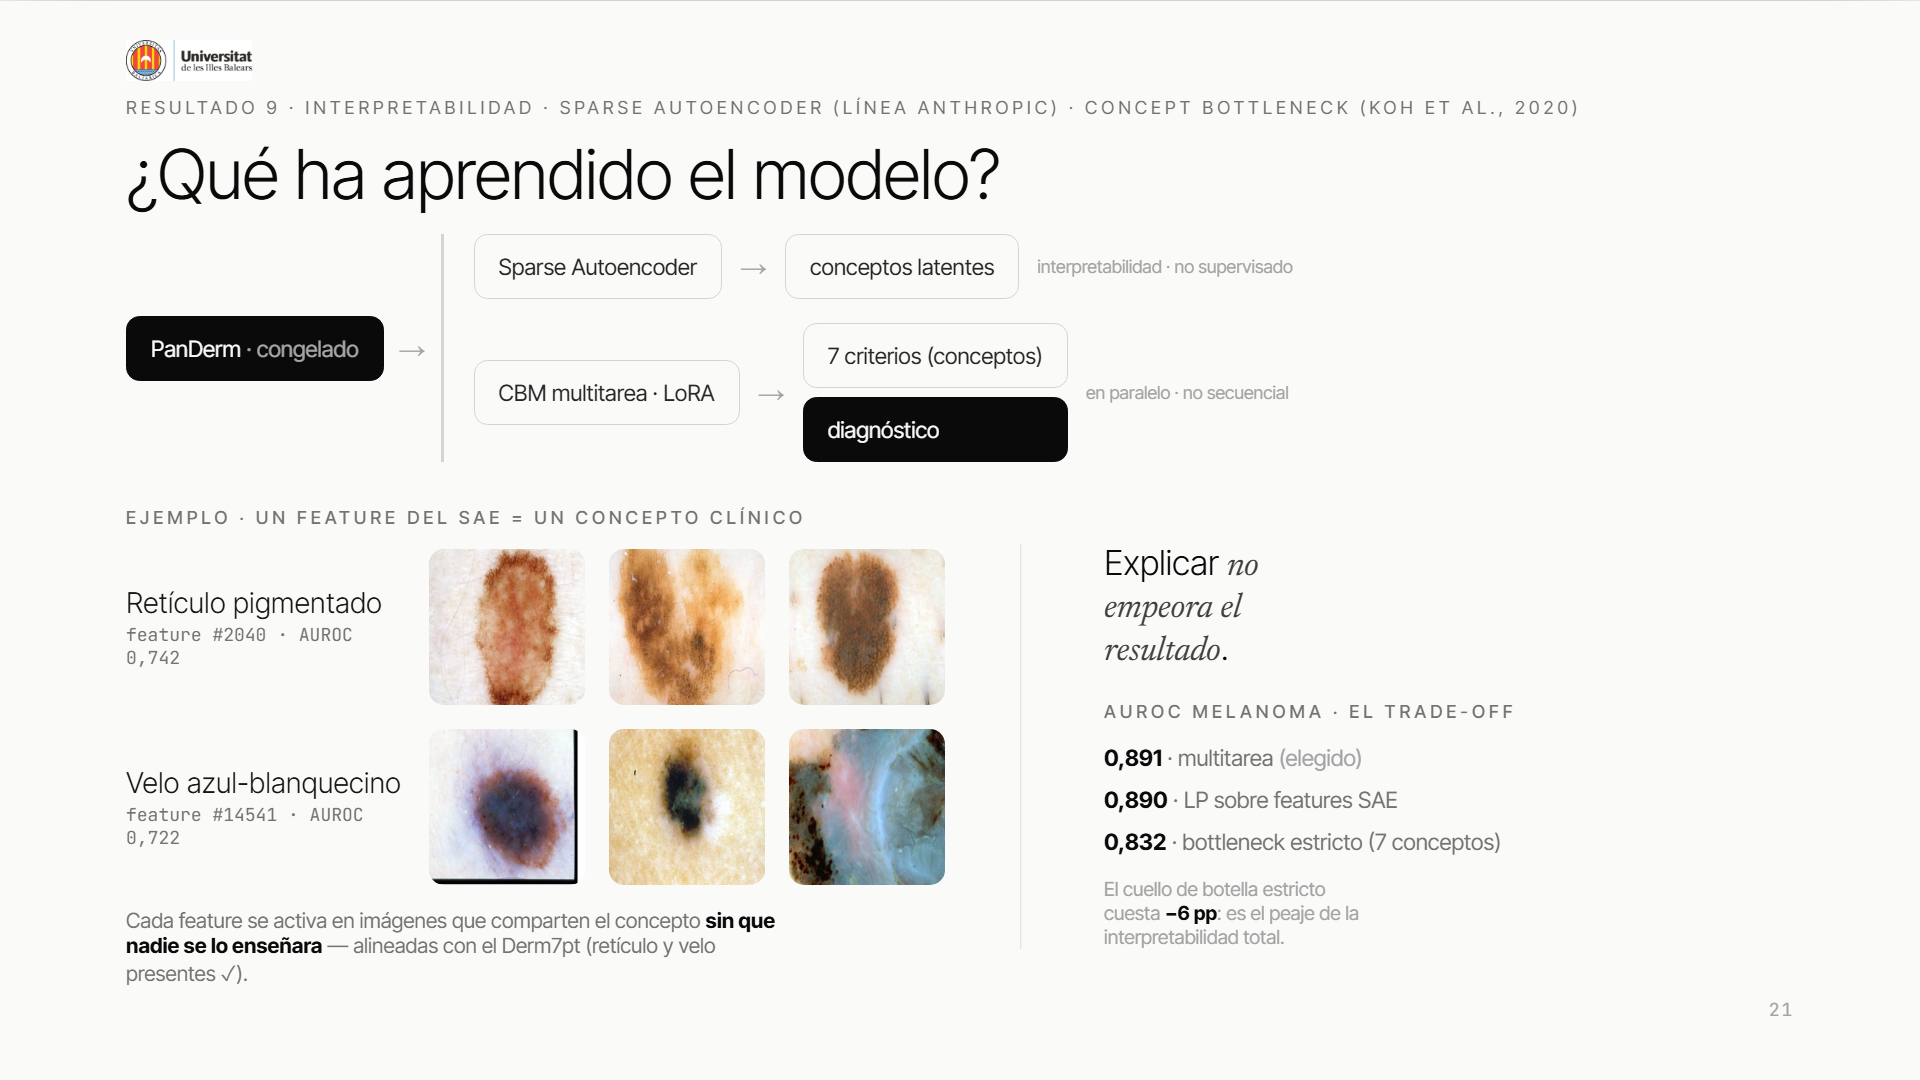
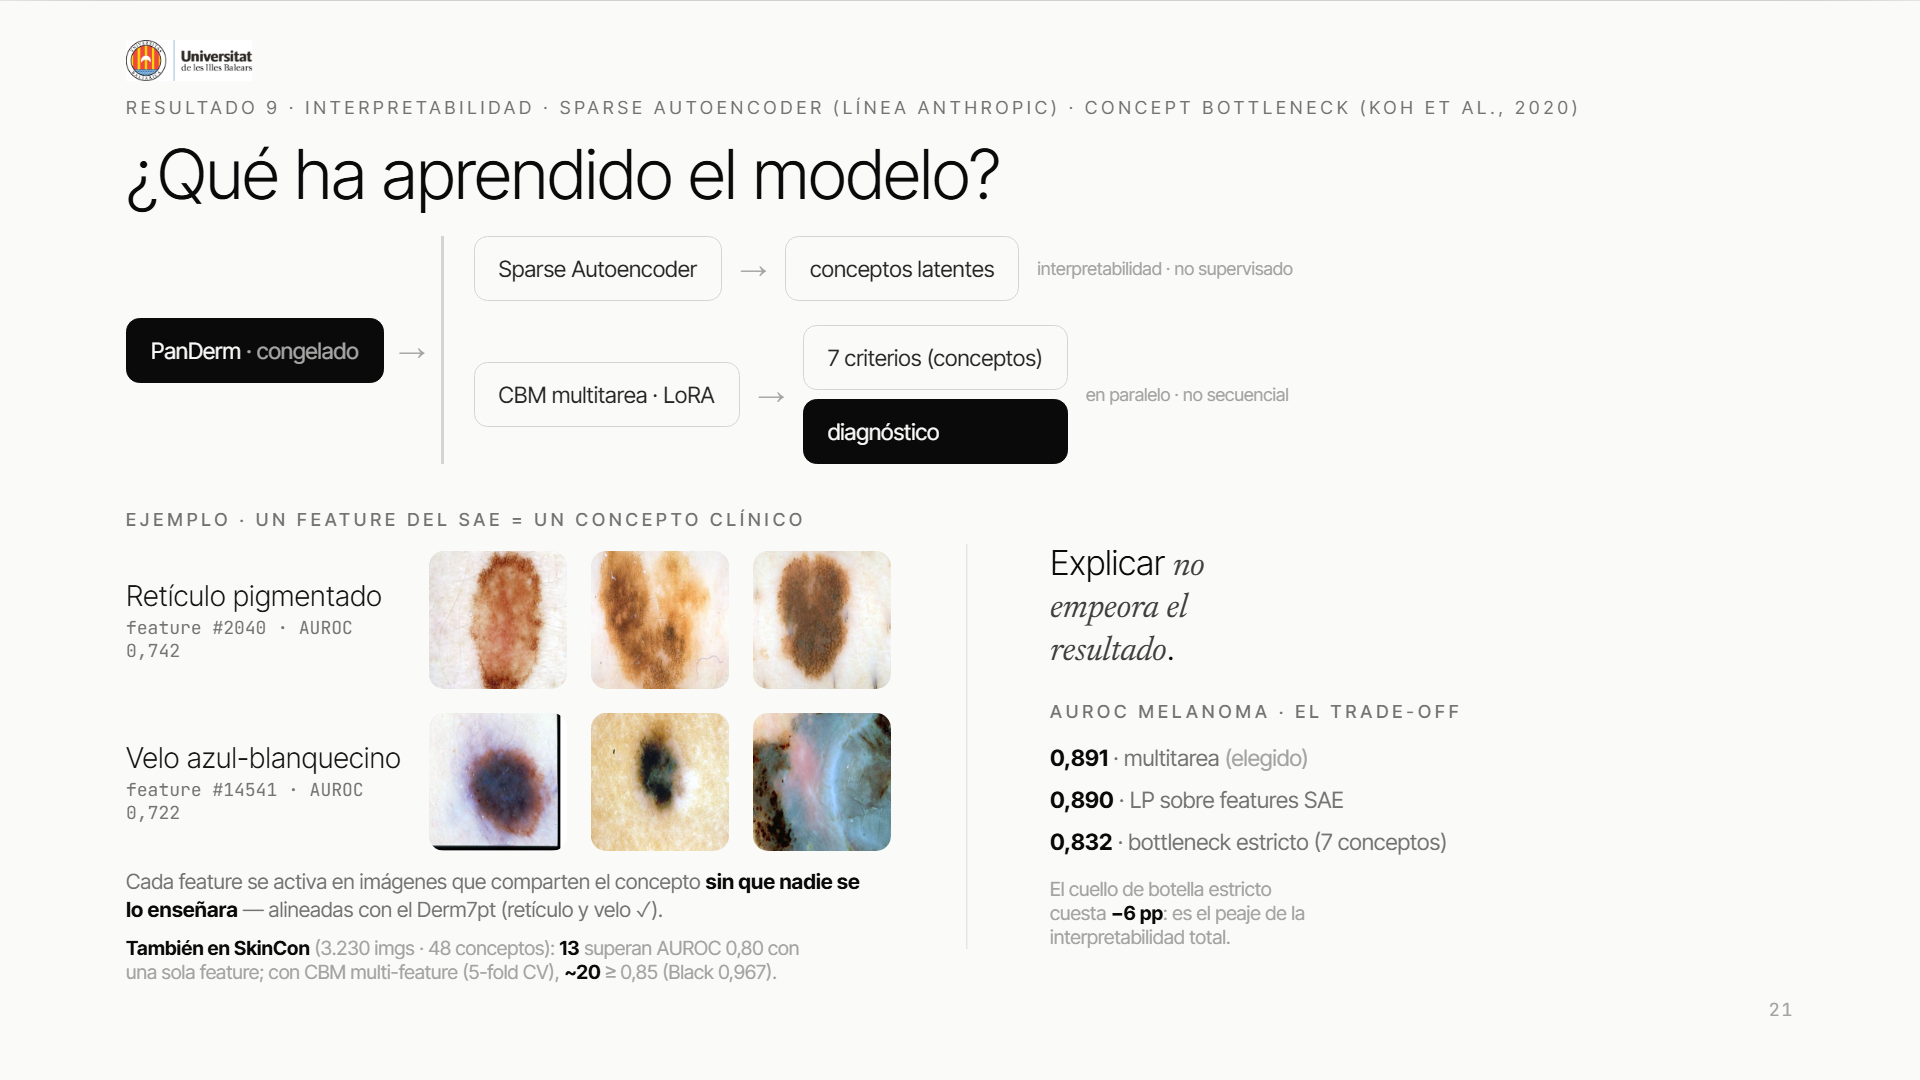
deck slide21: anade validacion SkinCon (48 conceptos: 13 single-feature AUROC>0,80, ~20 CBM 5-fold >=0,85, Black 0,967)

diff --git a/deck/index.html b/deck/index.html
@@ -848,20 +848,21 @@
               <div class="lead" style="font-size:19px">Retículo pigmentado</div>
               <div class="mono" style="font-size:12px; color:var(--ink500); margin-top:2px">feature #2040 · AUROC 0,742</div>
             </div>
-            <img src="assets/sae_1.png" style="width:104px; height:104px; object-fit:cover; display:block">
-            <img src="assets/sae_2.png" style="width:104px; height:104px; object-fit:cover; display:block">
-            <img src="assets/sae_3.png" style="width:104px; height:104px; object-fit:cover; display:block">
+            <img src="assets/sae_1.png" style="width:92px; height:92px; object-fit:cover; display:block">
+            <img src="assets/sae_2.png" style="width:92px; height:92px; object-fit:cover; display:block">
+            <img src="assets/sae_3.png" style="width:92px; height:92px; object-fit:cover; display:block">
           </div>
           <div style="display:flex; align-items:center; gap:16px; margin-top:16px">
             <div style="width:186px; flex:none">
               <div class="lead" style="font-size:19px">Velo azul-blanquecino</div>
               <div class="mono" style="font-size:12px; color:var(--ink500); margin-top:2px">feature #14541 · AUROC 0,722</div>
             </div>
-            <img src="assets/velo_1.png" style="width:104px; height:104px; object-fit:cover; display:block">
-            <img src="assets/velo_2.png" style="width:104px; height:104px; object-fit:cover; display:block">
-            <img src="assets/velo_3.png" style="width:104px; height:104px; object-fit:cover; display:block">
+            <img src="assets/velo_1.png" style="width:92px; height:92px; object-fit:cover; display:block">
+            <img src="assets/velo_2.png" style="width:92px; height:92px; object-fit:cover; display:block">
+            <img src="assets/velo_3.png" style="width:92px; height:92px; object-fit:cover; display:block">
           </div>
-          <div class="muted" style="margin-top:15px; font-size:14px; max-width:56ch">Cada feature se activa en imágenes que comparten el concepto <b style="color:var(--ink)">sin que nadie se lo enseñara</b> — alineadas con el Derm7pt (retículo y velo presentes ✓).</div>
+          <div class="muted" style="margin-top:12px; font-size:14px; max-width:62ch">Cada feature se activa en imágenes que comparten el concepto <b style="color:var(--ink)">sin que nadie se lo enseñara</b> — alineadas con el Derm7pt (retículo y velo ✓).</div>
+          <div class="muted" style="margin-top:9px; font-size:13px; color:var(--ink400); max-width:62ch"><b style="color:var(--ink)">También en SkinCon</b> (3.230 imgs · 48 conceptos): <b style="color:var(--ink)">13</b> superan AUROC 0,80 con una sola feature; con CBM multi-feature (5-fold CV), <b style="color:var(--ink)">~20</b> ≥ 0,85 (Black 0,967).</div>
         </div>
         <div class="divleft">
           <div class="biglead" style="font-size:23px; max-width:13ch">Explicar <span class="serif">no empeora el resultado</span>.</div>
